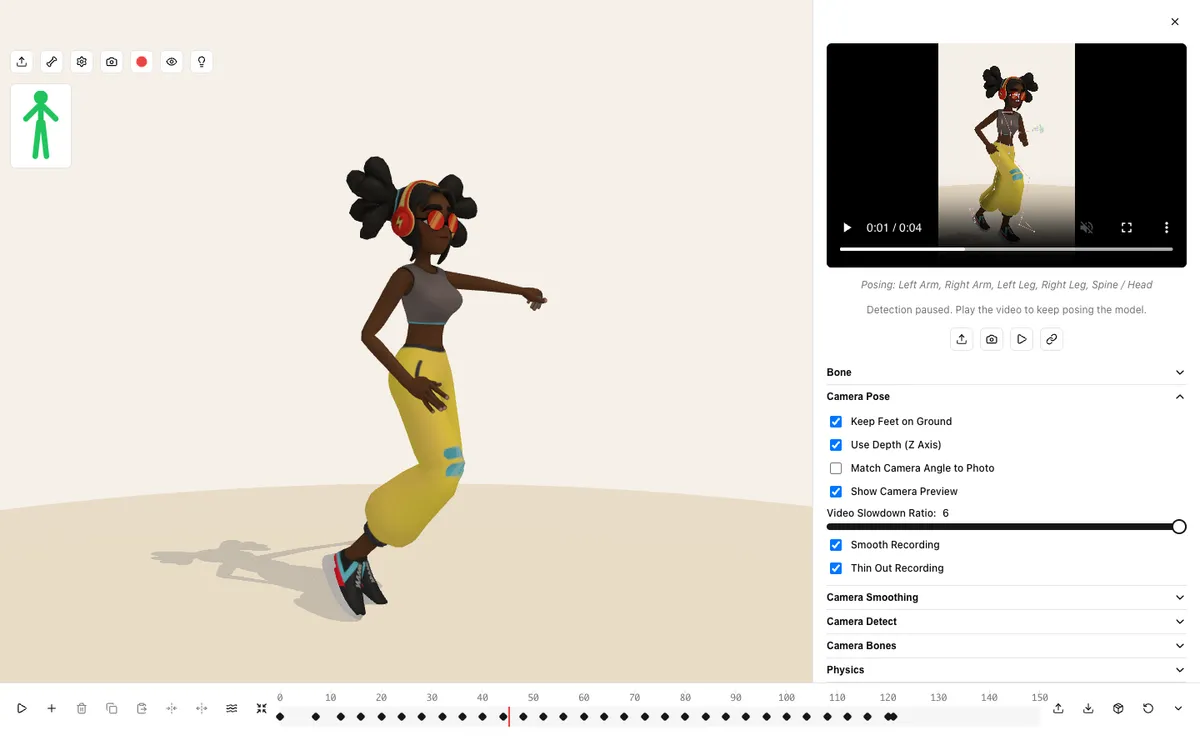
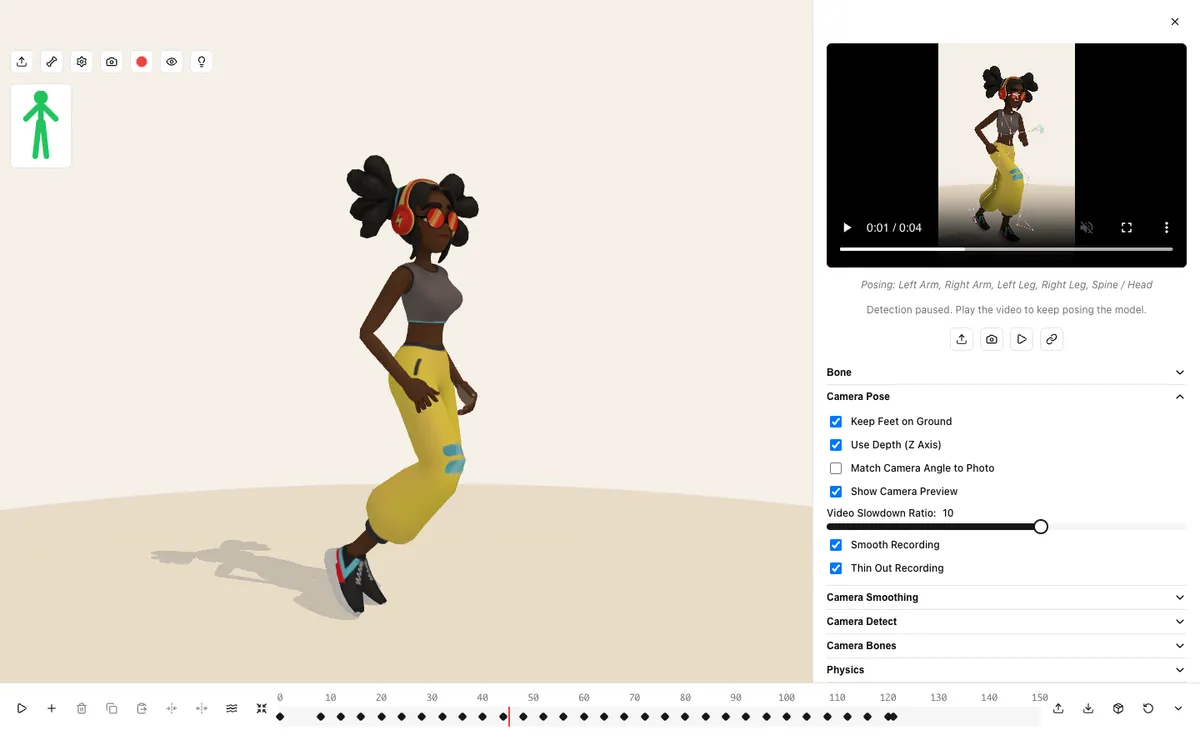
feat: slow a video down to 16 times, 10 by default, and hide the skeleton while it plays
Video Slowdown Ratio reaches 16, the slowest a browser will play a video:
Chromium throws below a sixteenth of normal speed. It starts at 10, so each
recorded frame is filtered from ten readings.

The detected skeleton drawn over the preview is hidden while an uploaded video
plays, so the clip itself can be watched, and comes back when it is paused to
show what detection read for the frame on screen. The live camera keeps it,
since its feed never pauses.

diff --git a/src/views/Tools/RigAnimator/config.ts b/src/views/Tools/RigAnimator/config.ts
@@ -260,10 +260,11 @@ export const CAMERA_VISIBILITY_THRESHOLD_RANGE = { min: 0.05, max: 0.95, step: 0
  * Motion samples per frame of it before filtering them down to one: slowed N times, detection gets
  * about N readings of every video frame, so N samples a frame is what it can fill. Record Motion
  * follows the video's own clock, so a take keeps the video's real timing at any ratio. 1 plays at
- * normal speed with one sample a frame and nothing to filter.
+ * normal speed with one sample a frame and nothing to filter. 16 is the most browsers allow: a
+ * video's playback rate cannot go under 1/16, and Chromium throws below it.
  */
-export const CAMERA_VIDEO_SLOWDOWN_RATIO = 6
-export const CAMERA_VIDEO_SLOWDOWN_RATIO_RANGE = { min: 1, max: 6, step: 1 }
+export const CAMERA_VIDEO_SLOWDOWN_RATIO = 10
+export const CAMERA_VIDEO_SLOWDOWN_RATIO_RANGE = { min: 1, max: 16, step: 1 }
 
 /** Width of the docked camera/photo panel, as a fraction of the viewport, in both its own
  * layout and the 3D camera's re-centering onto the part of the canvas it leaves visible. */

diff --git a/src/views/Tools/RigAnimator/CameraPoseCapture.vue b/src/views/Tools/RigAnimator/CameraPoseCapture.vue
@@ -336,7 +336,13 @@ onUnmounted(() => {
         @ended="handleVideoEnded"
         @seeked="handleVideoSeeked"
       ></video>
-      <canvas ref="canvasReference" class="camera-pose-capture__overlay"></canvas>
+      <!-- Hidden while an uploaded video plays, so the clip itself can be watched; paused, it shows
+        what detection read for the frame on screen. -->
+      <canvas
+        v-show="!(mode === 'video' && isVideoPlaying)"
+        ref="canvasReference"
+        class="camera-pose-capture__overlay"
+      ></canvas>
     </div>
     <p class="camera-pose-capture__status camera-pose-capture__status--scope">
       {{

diff --git a/documentation/docs/guides/rig-animator.md b/documentation/docs/guides/rig-animator.md
@@ -486,7 +486,7 @@ Smoothing goes first so thinning never keeps a misread frame. The counts were me
 recording of the Running preset: six smoothing passes cost nothing, two halvings stay within about a
 degree of the full take, and every further halving loses the stride quickly.
 
-![The Rig Animator after recording an uploaded video: Camera Pose shows Video Slowdown Ratio at 6 with Smooth Recording and Thin Out Recording both checked, and the timeline below carries one keyframe every four frames from 0 to 120](/img/animation/rig-recording-cleanup.webp)
+![The Rig Animator after recording an uploaded video: Camera Pose shows Video Slowdown Ratio at 10 with Smooth Recording and Thin Out Recording both checked, and the timeline below carries one keyframe every four frames from 0 to 120](/img/animation/rig-recording-cleanup.webp)
 
 ![The canvas buttons mid-recording: the record toggle has turned into a solid red square, between the camera and Camera Preview buttons](/img/animation/rig-record-motion.webp)
 
@@ -513,13 +513,15 @@ file instead of the live feed, useful for
 posing from a reference photo, testing against a known performance, or when there is no
 working camera. A photo runs the same Pose Landmarker in its image mode and feeds the result
 through the exact same mapping, applying it once as soon as a person is found. A video instead
-plays through once, slowed down by **Video Slowdown Ratio**, six times by default, and runs the exact same
+plays through once, slowed down by **Video Slowdown Ratio**, ten times by default, and runs the exact same
 live VIDEO-mode detection loop the
 camera feed uses (`useVideoLandmarkDetection`, shared between them), so it drives the rig
 continuously the same way a webcam does. Playing it never records anything by itself: **Play
 Video** / **Pause Video**, a play icon that joins the action row once a video is loaded, plays and
 pauses the clip on its own, without starting a take or moving the timeline, so the mapping can be
-watched first, and it stays on the action row even while the preview is hidden. Record Motion
+watched first, and it stays on the action row even while the preview is hidden. While the clip
+plays, the preview leaves out the detected skeleton so the video itself can be watched; paused, it
+draws what detection read for the frame on screen. Record Motion
 then works against it exactly as it does against the camera: clicking it on a paused video plays
 the video too, and the take ends on its own once the video reaches its natural end, the same as a
 manual **Stop Recording** click would. It plays once rather than looping specifically so that end
@@ -676,13 +678,14 @@ The remaining options tune the result:
   shoulders sit at the same depth, and turning moves one shoulder closer to the camera than the
   other by exactly the angle turned. Off by default since it moves the view every applied frame,
   which fights any manual orbiting done in between.
-- **Video Slowdown Ratio**, 6 by default, from 1 to 6, sets two things at once for an uploaded
+- **Video Slowdown Ratio**, 10 by default, from 1 to 16, sets two things at once for an uploaded
   video: how many times slower it plays, and how many poses Record Motion samples per frame of it
   before filtering them down to one keyframe. The two go together because a video slowed N times
   gives detection about N readings of each of its frames. Record Motion times a video take by the
   video's own position rather than the clock on the wall, so the recorded clip keeps the video's
   real timing at any ratio. 1 plays at normal speed with one sample a frame and nothing to filter.
-  The smoothing times above still run on the wall clock, so at a ratio of 6 they act on a sixth as
+  16 is the ceiling because browsers will not play a video slower than a sixteenth of its speed.
+  The smoothing times above still run on the wall clock, so at a ratio of 10 they act on a tenth as
   much of the video.
 - **Show Camera Preview**, off by default, shows the mirrored video/photo preview when turned
   on, as does the docked Camera Preview button beside the camera one while capture is open; hidden, the docked panel shrinks down to just its action buttons and the model gets the
